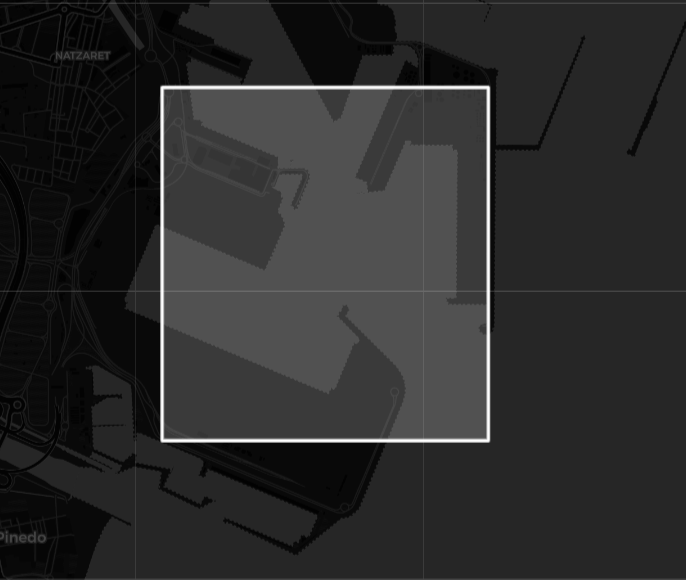
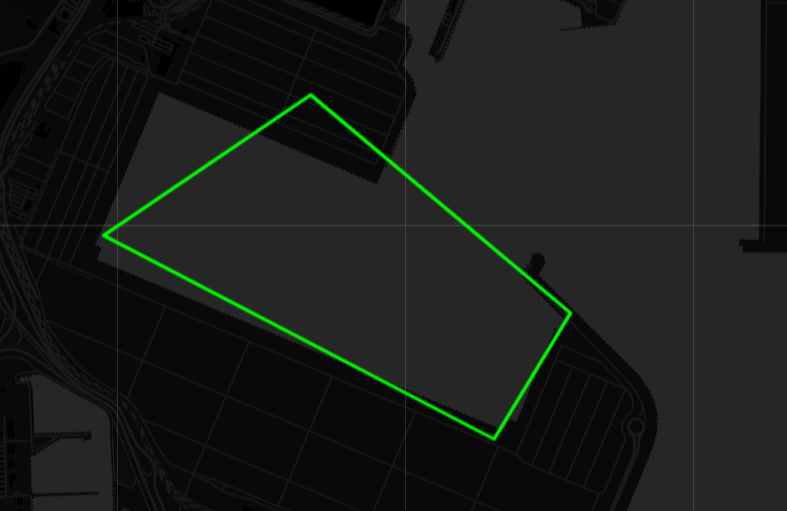
designed routes

diff --git a/src/src/layouts/profile/index.js b/src/src/layouts/profile/index.js
@@ -1,4 +1,3 @@
-import React, { Component }  from 'react';
 
 // @mui material components
 // @mui icons
@@ -12,9 +11,9 @@ import Grid from "@mui/material/Grid";
 // import team3 from "assets/images/avatar3.png";
 // import team4 from "assets/images/avatar4.png";
 // Images
-import UPVRoute1 from "assets/images/UPVRoute1.png";
+import UPVRoute from "assets/images/UPVRoute.png";
 import HarborRoute from "assets/images/HarborRoute.png";
-import UPVRoute2 from "assets/images/UPVRoute2.png";
+import HarborRoute2 from "assets/images/HarborRoute2.png";
 // Oroneta components
 import VuiBox from "components/VuiBox";
 import VuiTypography from "components/VuiTypography";
@@ -28,9 +27,12 @@ import PlatformSettings from "layouts/profile/components/PlatformSettings";
 import DashboardNavbar from "examples/Navbars/DashboardNavbar";
 import Welcome from "./components/Welcome/index";
 import Calendario from "./components/Calendar";
-
+// useContext
+import { UserContext } from 'context/UserContext';
+import React, { useContext } from 'react'
 
 function Overview() {
+  const { handleChangeRouteUPV, handleChangeRouteHarbor1, handleChangeRouteHarbor2 } = useContext( UserContext );
   return (
     <DashboardLayout>
       <DashboardNavbar />
@@ -129,44 +131,46 @@ function Overview() {
               <Grid container spacing={3}>
                 <Grid item xs={12} md={6} xl={4}>
                   <DefaultProjectCard
-                    image={UPVRoute1}
-                    label="route #1"
-                    description=""
-                    title="UPV"
-                    action={{
-                      type: "internal",
-                      route: "/pages/profile/profile-overview",
-                      color: "white",
-                      label: "VIEW",
-                    }}
-                  />
-                </Grid>
-                <Grid item xs={12} md={6} xl={4}>
-                  <DefaultProjectCard
                     image={HarborRoute}
-                    label="route #2"
+                    label="route #1"
                     title="Valencia's harbor"
-                    description=""
                     action={{
                       type: "internal",
-                      route: "/pages/profile/profile-overview",
+                      route: "/map",
                       color: "white",
-                      label: "VIEW",
+                      label: "Go on",
                     }}
+                    funcion= { handleChangeRouteHarbor1 }
                   />
                 </Grid>
                 <Grid item xs={12} md={6} xl={4}>
                   <DefaultProjectCard
-                    image={UPVRoute2}
+                    image={HarborRoute2}
+                    label="route #2"
+                    title="Valencia's harbor 2"
+                    action={{
+                      type: "internal",
+                      route: "/map",
+                      color: "white",
+                      label: "Go on",
+                    }}
+                    funcion={ handleChangeRouteHarbor2 }
+                  />
+                </Grid>
+                <Grid item xs={12} md={6} xl={4}>
+                  <DefaultProjectCard
+                    image={UPVRoute}
                     label="route #3"
                     title="UPV"
                     description=""
                     action={{
                       type: "internal",
-                      route: "/pages/profile/profile-overview",
+                      route: "/map",
                       color: "white",
-                      label: "VIEW",
+                      label: "Go on",
                     }}
+                    funcion={ handleChangeRouteUPV }
+
                   />
                 </Grid>
               </Grid>

diff --git a/src/src/layouts/company/index.js b/src/src/layouts/company/index.js
@@ -19,9 +19,9 @@ import linlei from "assets/images/linleiZheng.jpeg";
 // import team4 from "assets/images/avatar4.png";
 
 // Images
-import UPVRoute1 from "assets/images/UPVRoute1.png";
+import HarborRoute2 from "assets/images/HarborRoute2.png";
 import HarborRoute from "assets/images/HarborRoute.png";
-import UPVRoute2 from "assets/images/UPVRoute2.png";
+import UPVRoute from "assets/images/UPVRoute.png";
 // Oroneta components
 import VuiBox from "components/VuiBox";
 import ProfileInfoCard from "examples/Cards/InfoCards/ProfileInfoCard";
@@ -116,15 +116,15 @@ function Overview() {
               <Grid container spacing={3}>
                 <Grid item xs={12} md={6} xl={4}>
                   <DefaultProjectCard
-                    image={UPVRoute1}
+                    image={HarborRoute}
                     label="Route #1"
-                    title="Route of UPV"
-                    description="The drone will roam around the UPV."
+                    title="Route of harbor"
+                    description="The drone will roam around the valencia's harbor."
                     action={{
                       type: "internal",
                       route: "/pages/profile/profile-overview",
                       color: "white",
-                      label: "VIEW ALL",
+                      label: "Go on",
                     }}
                     authors={[
                       { image: linlei, name: "Linlei Zheng" },
@@ -136,7 +136,7 @@ function Overview() {
                 </Grid>
                 <Grid item xs={12} md={6} xl={4}>
                   <DefaultProjectCard
-                    image={HarborRoute}
+                    image={HarborRoute2}
                     label="Route #2"
                     title="Route of Harbor"
                     description="The drone will roam around the harbor of Valencia."
@@ -144,7 +144,7 @@ function Overview() {
                       type: "internal",
                       route: "/pages/profile/profile-overview",
                       color: "white",
-                      label: "VIEW ALL",
+                      label: "Go on",
                     }}
                     authors={[
                       { image: linlei, name: "Linlei Zheng" },
@@ -153,7 +153,7 @@ function Overview() {
                 </Grid>
                 <Grid item xs={12} md={6} xl={4}>
                   <DefaultProjectCard
-                    image={UPVRoute2}
+                    image={UPVRoute}
                     label="Route #3"
                     title="Route of UPV"
                     description="The drone will roam around the UPV."
@@ -161,7 +161,7 @@ function Overview() {
                       type: "internal",
                       route: "/pages/profile/profile-overview",
                       color: "white",
-                      label: "VIEW ALL",
+                      label: "Go on",
                     }}
                     authors={[
                       { image: linlei, name: "Linlei Zheng" },

diff --git a/src/src/examples/MapView/index.js b/src/src/examples/MapView/index.js
@@ -1,11 +1,38 @@
 import { UserContext } from 'context/UserContext';
 import React, { useContext } from 'react'
-import { MapContainer, TileLayer, Popup, Marker } from 'react-leaflet';
-const position = [39.4371,-0.3177];
+import { MapContainer, TileLayer, Popup, Marker, Polyline } from 'react-leaflet';
+
+const harborRoute = [
+    [39.4400359, -0.3222084],
+    [39.4336000, -0.3123000],
+    [39.4299000, -0.3152000],
+    [39.4359000, -0.3301000],
+    [39.4400359, -0.3222084],
+];
+
+const upvRoute = [
+    [39.4821000, -0.3404000],
+    [39.4814400, -0.3366300],
+    [39.4793100, -0.3377900],
+    [39.4802300, -0.3414900],
+    [39.4821000, -0.3404000],
+];
+
+const harborRoute2 = [
+    [39.4470673, -0.3086189],
+    [39.4469, -0.3048],
+    [39.4366000, -0.3056000],
+    [39.4419000, -0.3117000],
+    [39.4470673, -0.3086189],
+]
+
+const blueOptions = { color: '#1E90FF' };
+const limeOptions = { color: 'lime'};
+const yellowOptions = { color: '#FFFF00' };
 
 export const MapView = ({href, height, width, borderRadius, enableTool, zoom}) => {
     
-    const { infoDrones } = useContext( UserContext );
+    const { infoDrones, statusRouteHarbor1, statusRouteHarbor2, statusRouteUPV, position } = useContext( UserContext );
     // console.log(infoDrones);
     return (
         (enableTool) ?
@@ -13,7 +40,10 @@ export const MapView = ({href, height, width, borderRadius, enableTool, zoom}) =
             <TileLayer
                 url={href}
             />
-            { infoDrones.map( (drone) => { return <Marker key={drone.id} position={drone.gps}></Marker>})}
+            { statusRouteHarbor1 && <Polyline pathOptions={blueOptions} positions={harborRoute} />}
+            {  statusRouteUPV && <Polyline pathOptions={yellowOptions} positions={upvRoute} /> }
+            { statusRouteHarbor2 && <Polyline pathOptions={limeOptions} positions={harborRoute2} />} 
+            {/* { infoDrones.map( (drone) => { return <Marker key={drone.id} position={drone.gps}></Marker>})} */}
             {/* <Marker position={ [39.4371, -0.3177] }>
             </Marker> */}
         </MapContainer>)

diff --git a/src/src/context/UserProvider.jsx b/src/src/context/UserProvider.jsx
@@ -12,6 +12,34 @@ export const UserProvider = ( { children } ) => {
         gps: [39.428, -0.3183],
         battery: 0
     });
+
+    const [statusRouteUPV, setStatusRouteUPV] = useState(false);
+    const [statusRouteHarbor1, setStatusRouteHarbor1] = useState(false);
+    const [statusRouteHarbor2, setStatusRouteHarbor2] = useState(false);
+    const [position, setPosition] = useState([39.4371,-0.3177])
+
+    const handleChangeRouteUPV = () => {
+        setStatusRouteUPV(!statusRouteUPV);
+        
+        // if (statusRouteUPV) {
+            // fetch(url, {
+            //     method: 
+            // })
+        // }
+    } 
+
+    const handleChangeRouteHarbor1 = () => {
+        setStatusRouteHarbor1(!statusRouteHarbor1);
+        // if (statusRouteHarbor1) {
+
+        // }
+    }
+
+    const handleChangeRouteHarbor2 = () => {
+        setStatusRouteHarbor2(!statusRouteHarbor2)
+        // if (statusRouteHarbor2)
+    }
+
     // Hace fetch a la API 
     useEffect(() => {
         const fetchDataPeriodically = () => {
@@ -26,7 +54,6 @@ export const UserProvider = ( { children } ) => {
                 // console.log(allDrones[0])
                 setInfoDrone(allDrones[0]);
                 console.log( "Los datos recibidos son ",infoDrone )
-                
             })
             .catch((error) => console.error('ERROR', error))
         };
@@ -58,7 +85,7 @@ export const UserProvider = ( { children } ) => {
     }
 
     return (
-        <UserContext.Provider value={ { infoDrone, infoTotalDrones, infoDrones } }>
+        <UserContext.Provider value={ { infoDrone, infoTotalDrones, infoDrones, statusRouteHarbor1, statusRouteHarbor2, statusRouteUPV, handleChangeRouteHarbor1, handleChangeRouteHarbor2, handleChangeRouteUPV, position } }>
             { children }
         </UserContext.Provider>
     )

diff --git a/src/src/examples/Cards/ProjectCards/DefaultProjectCard/index.js b/src/src/examples/Cards/ProjectCards/DefaultProjectCard/index.js
@@ -15,7 +15,7 @@ import VuiTypography from "components/VuiTypography";
 import VuiButton from "components/VuiButton";
 import VuiAvatar from "components/VuiAvatar";
 
-function DefaultProjectCard({ image, label, title, description, action, authors }) {
+function DefaultProjectCard({ image, label, title, description, action, authors, funcion = () => {}}) {
   const renderAuthors = authors.map(({ image: media, name }) => (
     <Tooltip key={name} title={name} placement="bottom">
       <VuiAvatar
@@ -102,6 +102,7 @@ function DefaultProjectCard({ image, label, title, description, action, authors 
         <VuiBox display="flex" justifyContent="space-between" alignItems="center">
           {action.type === "internal" ? (
             <VuiButton
+              onClick={funcion}
               component={Link}
               to={action.route}
               variant="outlined"

diff --git a/src/src/routes.js b/src/src/routes.js
@@ -69,15 +69,15 @@ const routes = [
     component: Map,
     noCollapse: true,
   },
-  {
-    type: "collapse",
-    name: "Routes",
-    key: "routes",
-    route: "/routes",
-    icon: <MdRoute size="18px" color="inherit" />,
-    component: Routes,
-    noCollapse: true,
-  },
+  // {
+  //   type: "collapse",
+  //   name: "Routes",
+  //   key: "routes",
+  //   route: "/routes",
+  //   icon: <MdRoute size="18px" color="inherit" />,
+  //   component: Routes,
+  //   noCollapse: true,
+  // },
   // ------------------------------
   { type: "title", title: "Account", key: "account-pages" },
   {

diff --git a/src/src/context/index.js b/src/src/context/index.js
@@ -103,24 +103,3 @@ export {
   setDirection,
   setLayout,
 };
-
-// Crear el context
-export const DataFetchContext = createContext();
-
-// Crear el provider
-export const DataFetchProvider = props => {
-  const [data, setData] = useState(null);
-  
-  useEffect(() => {
-    setData({
-      numDrones: 2,
-      status: true,
-      speed: 30,
-    })
-  }, []);
-  return (
-    <DataFetchContext.Provider value={data}>
-      {props.children}
-    </DataFetchContext.Provider>
-  );
-};

diff --git a/src/src/App.js b/src/src/App.js
@@ -36,15 +36,6 @@ export default function App() {
   // const [/*rtlCache,*/ setRtlCache] = useState(null);
   const { pathname } = useLocation();
   // const session = false;
-  // Cache for the rtl
-  // useMemo(() => {
-  //   const cacheRtl = createCache({
-  //     key: "rtl",
-  //     stylisPlugins: [rtlPlugin],
-  //   });
-
-  //   setRtlCache(cacheRtl);
-  // }, []);
 
   // Open sidenav when mouse enter on mini sidenav
   const handleOnMouseEnter = () => {

diff --git a/src/src/examples/Navbars/DashboardNavbar/index.js b/src/src/examples/Navbars/DashboardNavbar/index.js
@@ -42,7 +42,7 @@ import {
 } from "context";
 
 // Images
-import team2 from "assets/images/team-2.jpg";
+import team2 from "assets/images/linleiZheng.jpeg";
 import logoSpotify from "assets/images/small-logos/logo-spotify.svg";
 
 function DashboardNavbar({ absolute, light, isMini }) {
